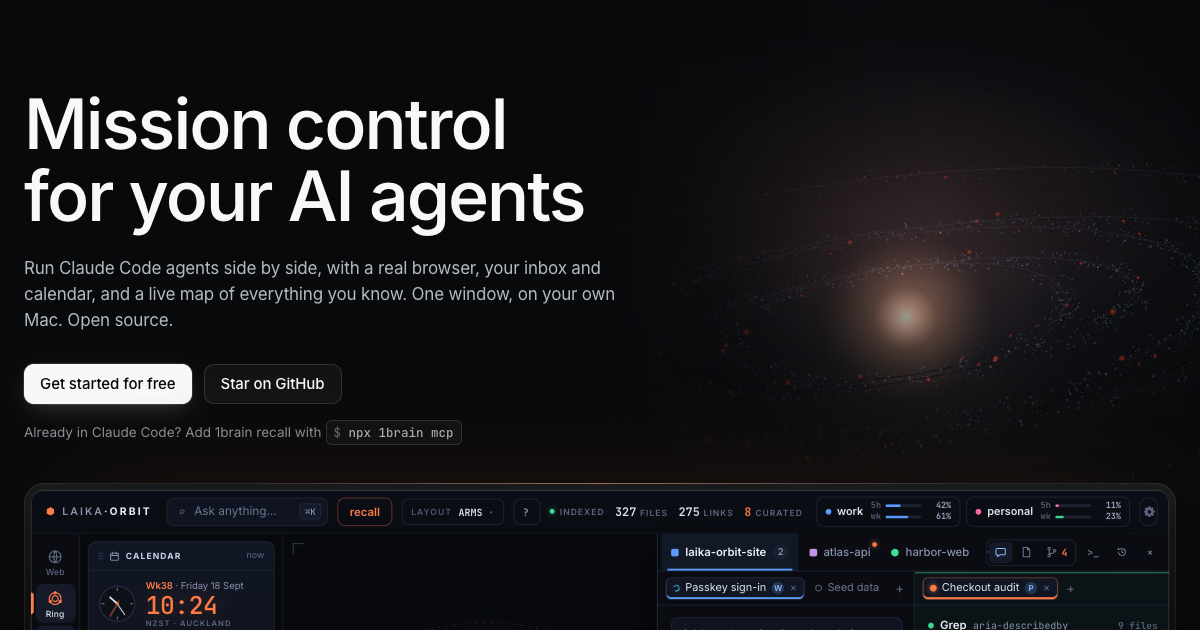
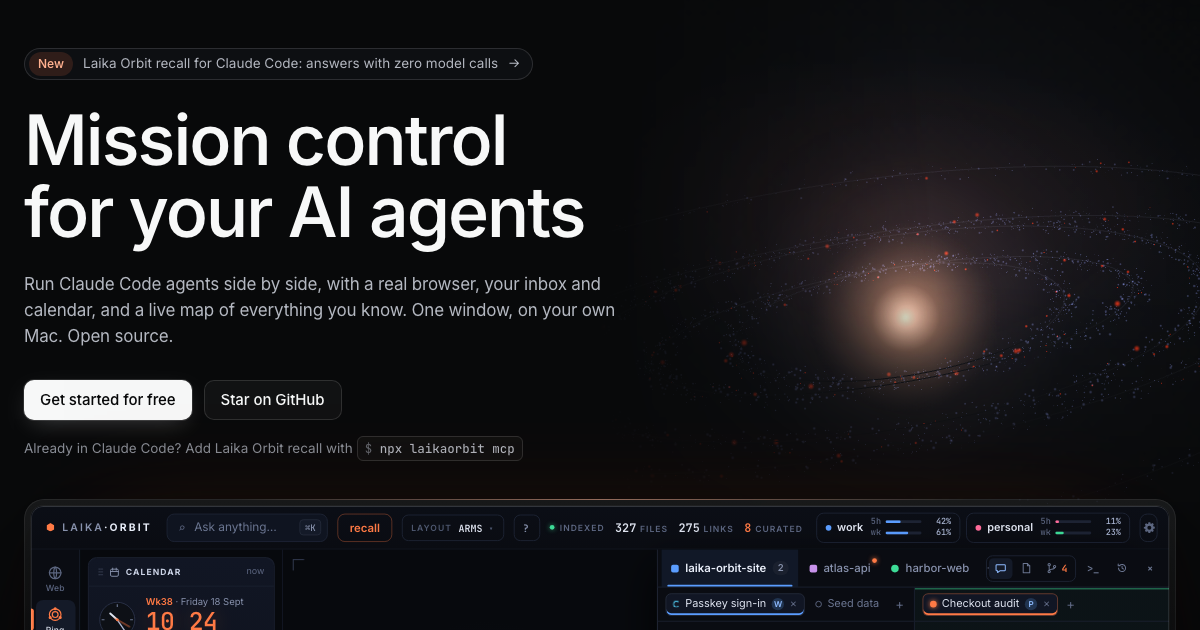
Share image, robots.txt, sitemap and phone layout
- og.png still said 'Add 1brain recall with npx 1brain mcp'. It's recaptured from the hero, and
  scripts/og-image.mjs makes it again whenever the hero changes.
- Docs pages had a large-image card but no image; they now share og.png.
- robots.txt was missing (it served the 404 page); it points at the sitemap.
- The sitemap listed pages marked noindex: the draft legal pages and the Pro account pages.
- On a phone the homepage scrolled sideways: the feature cards were 445px wide in a 390px screen
  (a 1fr column grows to its content), and the new recall line's command didn't wrap.
- Install docs say the signed app comes with Orbit Pro, so nobody hunts for a download.

diff --git a/src/styles/site.css b/src/styles/site.css
@@ -1116,6 +1116,10 @@ h3 {
   .proof-stats {
     gap: 20px;
   }
+  .recall-line code {
+    white-space: normal;
+    overflow-wrap: anywhere;
+  }
 }
 
 /* ─────────────────────────────── compare ── */
@@ -1297,7 +1301,8 @@ h3 {
 }
 @media (max-width: 720px) {
   .bento {
-    grid-template-columns: 1fr;
+    /* minmax(0, …): a card's wide visual must not stretch the column past the screen */
+    grid-template-columns: minmax(0, 1fr);
   }
   .card,
   .card.wide {

diff --git a/src/content/docs/docs/getting-started.md b/src/content/docs/docs/getting-started.md
@@ -16,6 +16,9 @@ description: Requirements, installing from source, and what happens on first lau
 
 ## Install
 
+Laika Orbit is built from source for now. A signed, notarised Mac app that updates itself comes with
+[Orbit Pro](/pricing/), which isn't on sale yet; join the waitlist there to hear when it opens.
+
 ```bash
 git clone https://github.com/Laika-Dynamics-Ltd/laika-orbit.git
 cd laika-orbit
